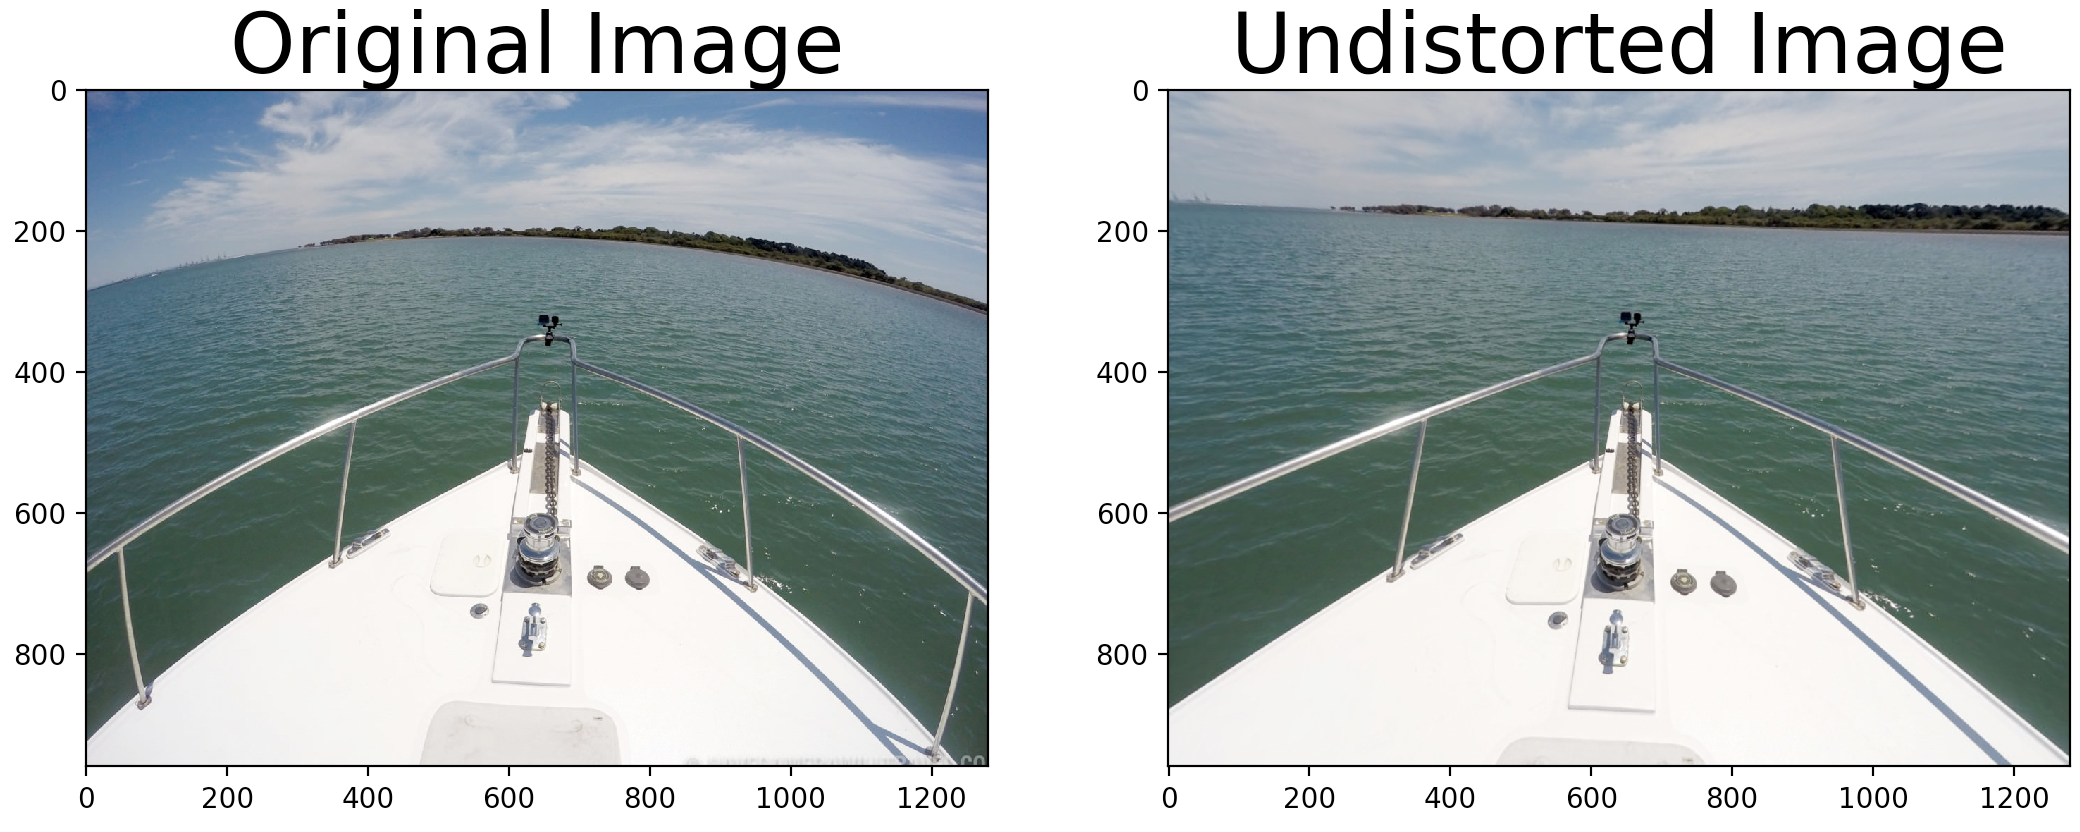
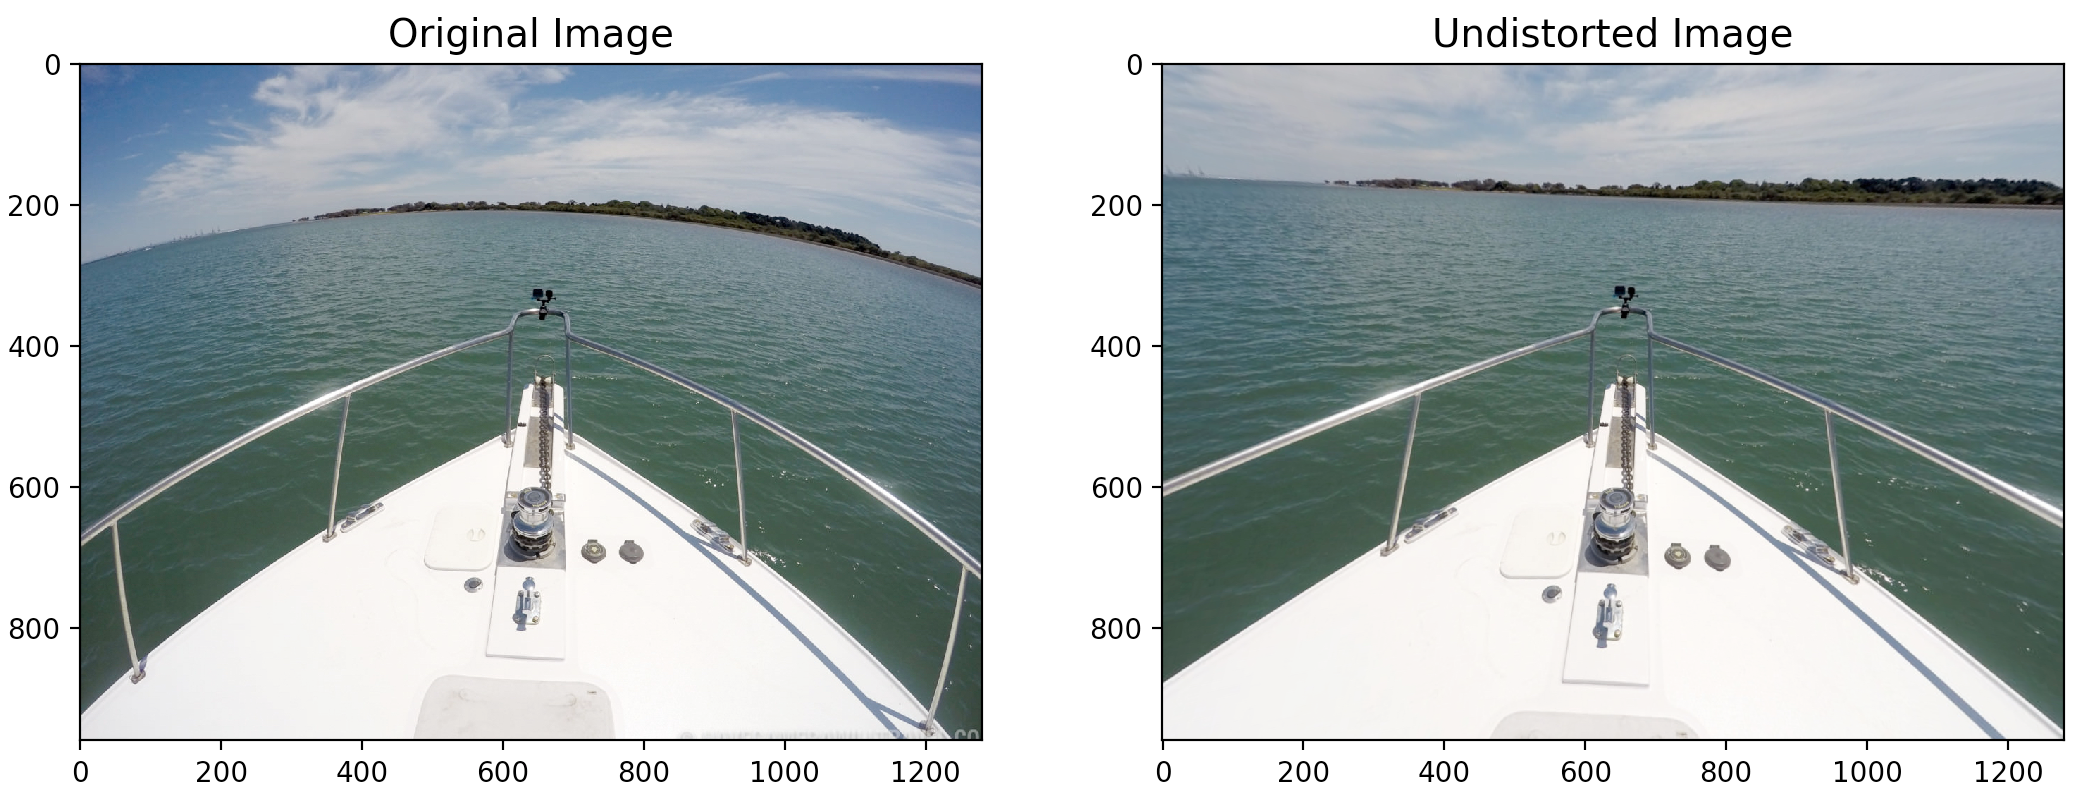
better readme

diff --git a/calibrate.py b/calibrate.py
@@ -59,9 +59,9 @@ def undistort_image(image, camera_matrix, distortion_coefficients, save_image_pa
         # Visualize undistortion
         f, (ax1, ax2) = plt.subplots(1, 2, figsize=(20, 10))
         ax1.imshow(image)
-        ax1.set_title('Original Image', fontsize=30)
+        ax1.set_title('Original Image', fontsize=14)
         ax2.imshow(undistorted_image)
-        ax2.set_title('Undistorted Image', fontsize=30)
+        ax2.set_title('Undistorted Image', fontsize=14)
         plt.show()
         plt.close()
 

diff --git a/README.md b/README.md
@@ -1,10 +1,14 @@
 ## Camera Calibration
+### Abstract
+This project contains camera calibration and undistortion functionality using Python 3 and OpenCV 3. Given
+a set of chessboard images, this project computes the camera's matrix and distortion coefficients. Afterward,
+the project uses the camera matrix and distortion coefficients to undistort other images captured by the same camera.
+Always remember: "straight lines should be straight." ;)
 
 ![example1](figures/gopro_example_1.png)
 ![example1](figures/gopro_example_2.png)
 
-This project contains camera calibration and undistortion functionality using Python 3 and OpenCV 3. Given
-a set of chessboard images, this project computes the camera matrix and distortion coefficients of the camera 
-used to capture the chessboard dataset. Run the example code like so:
+### Usage
+Run the example code like so:
 
     python calibrate.py
